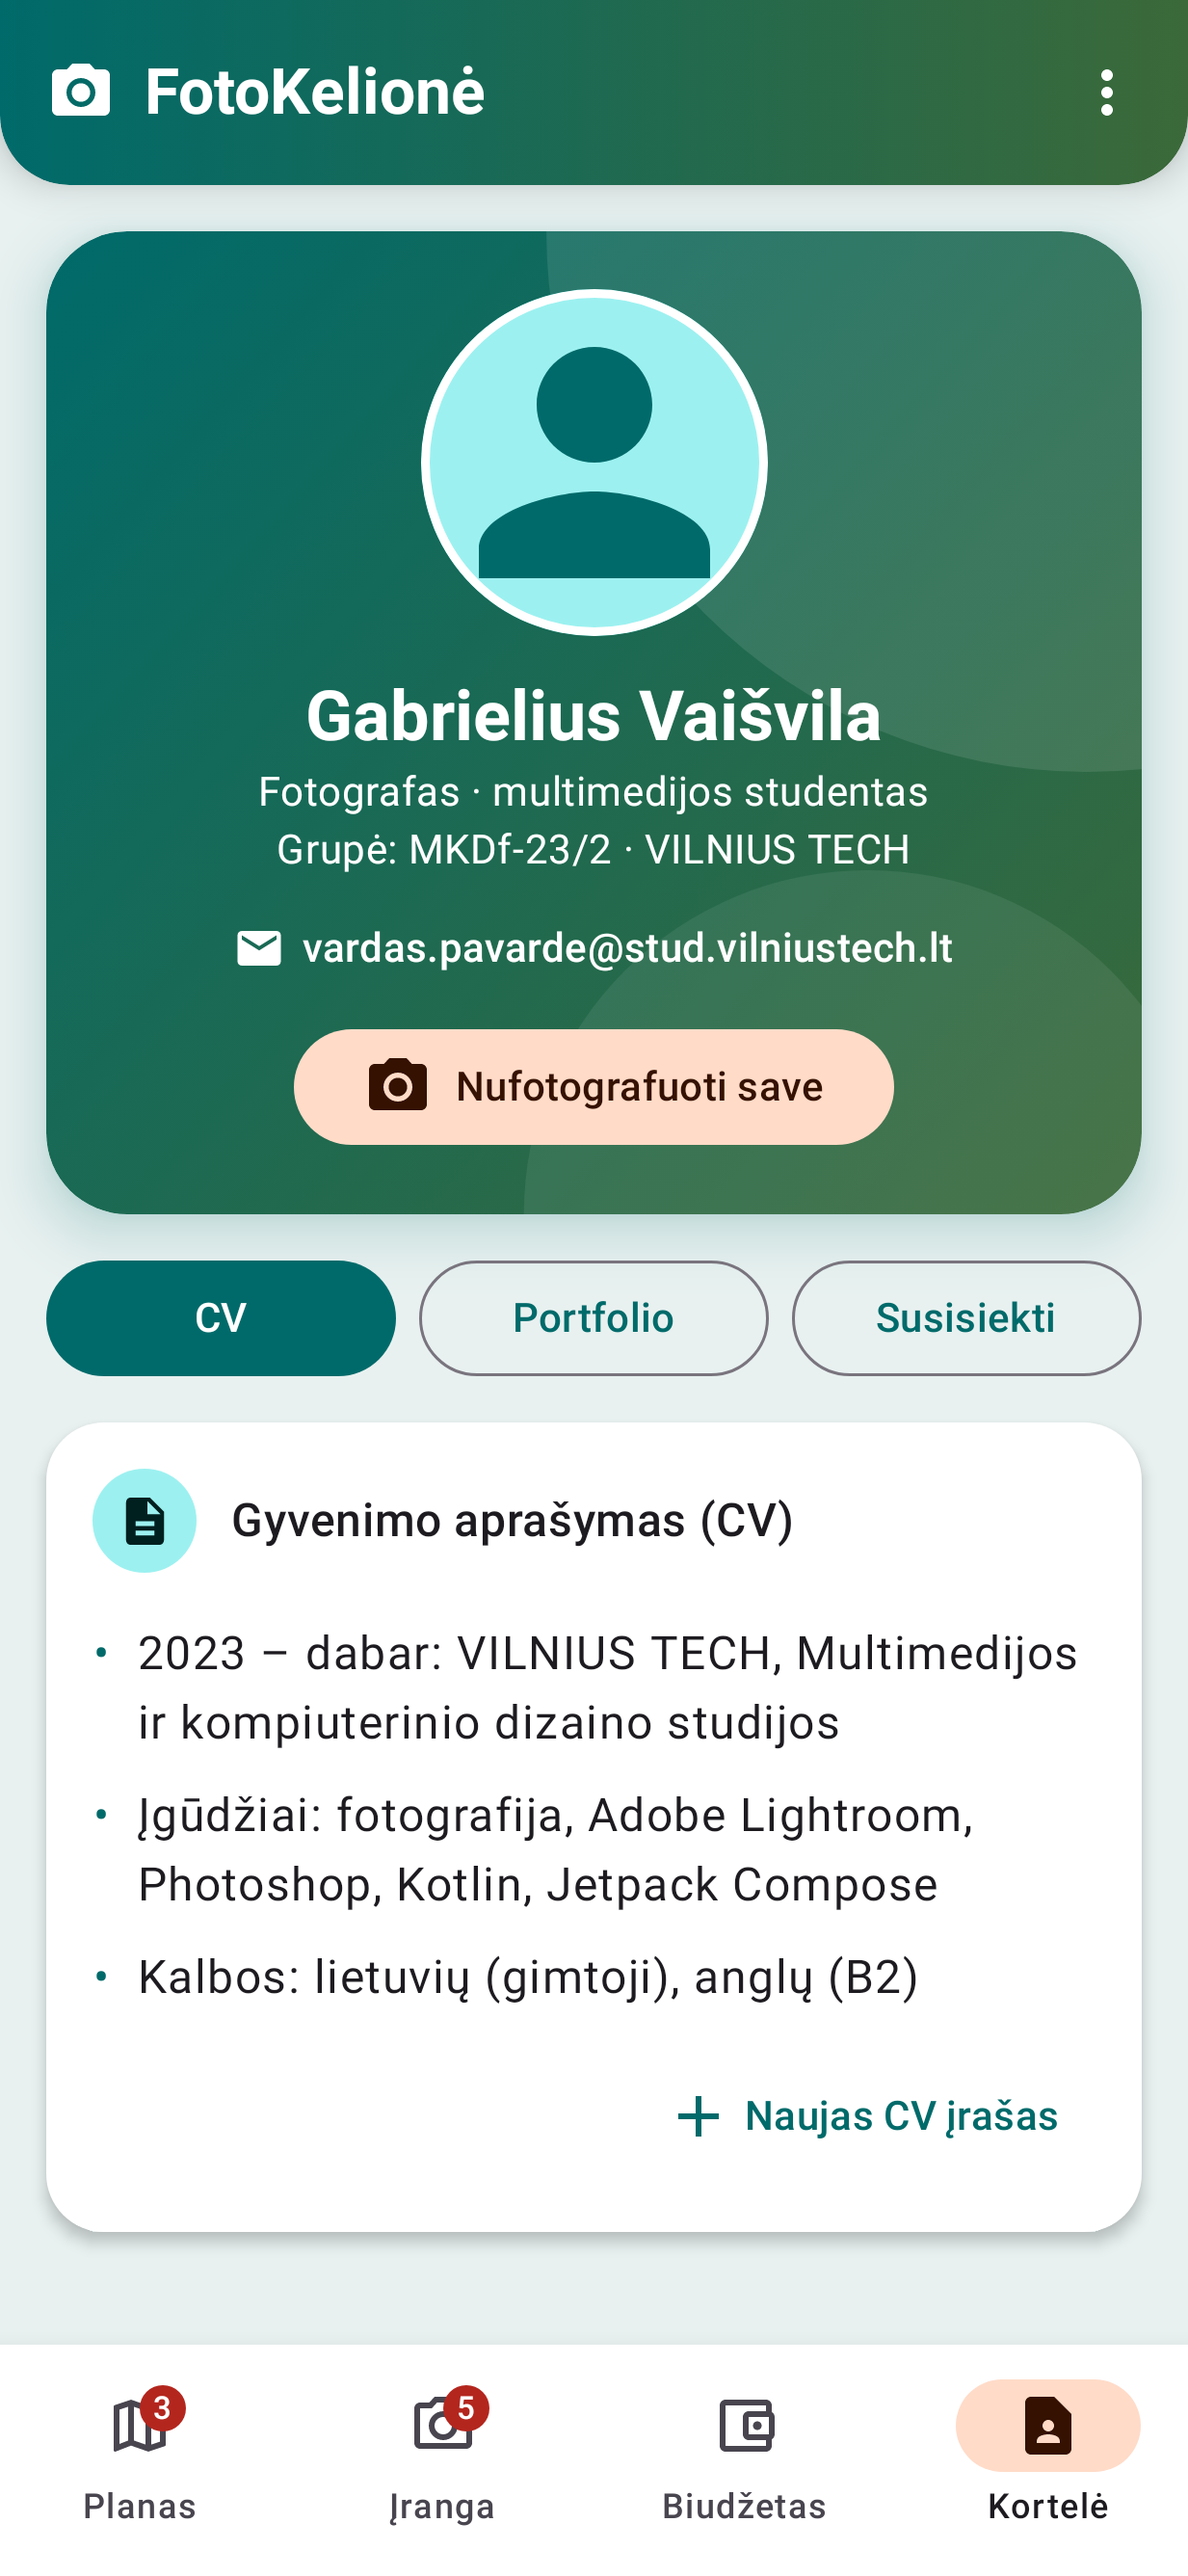
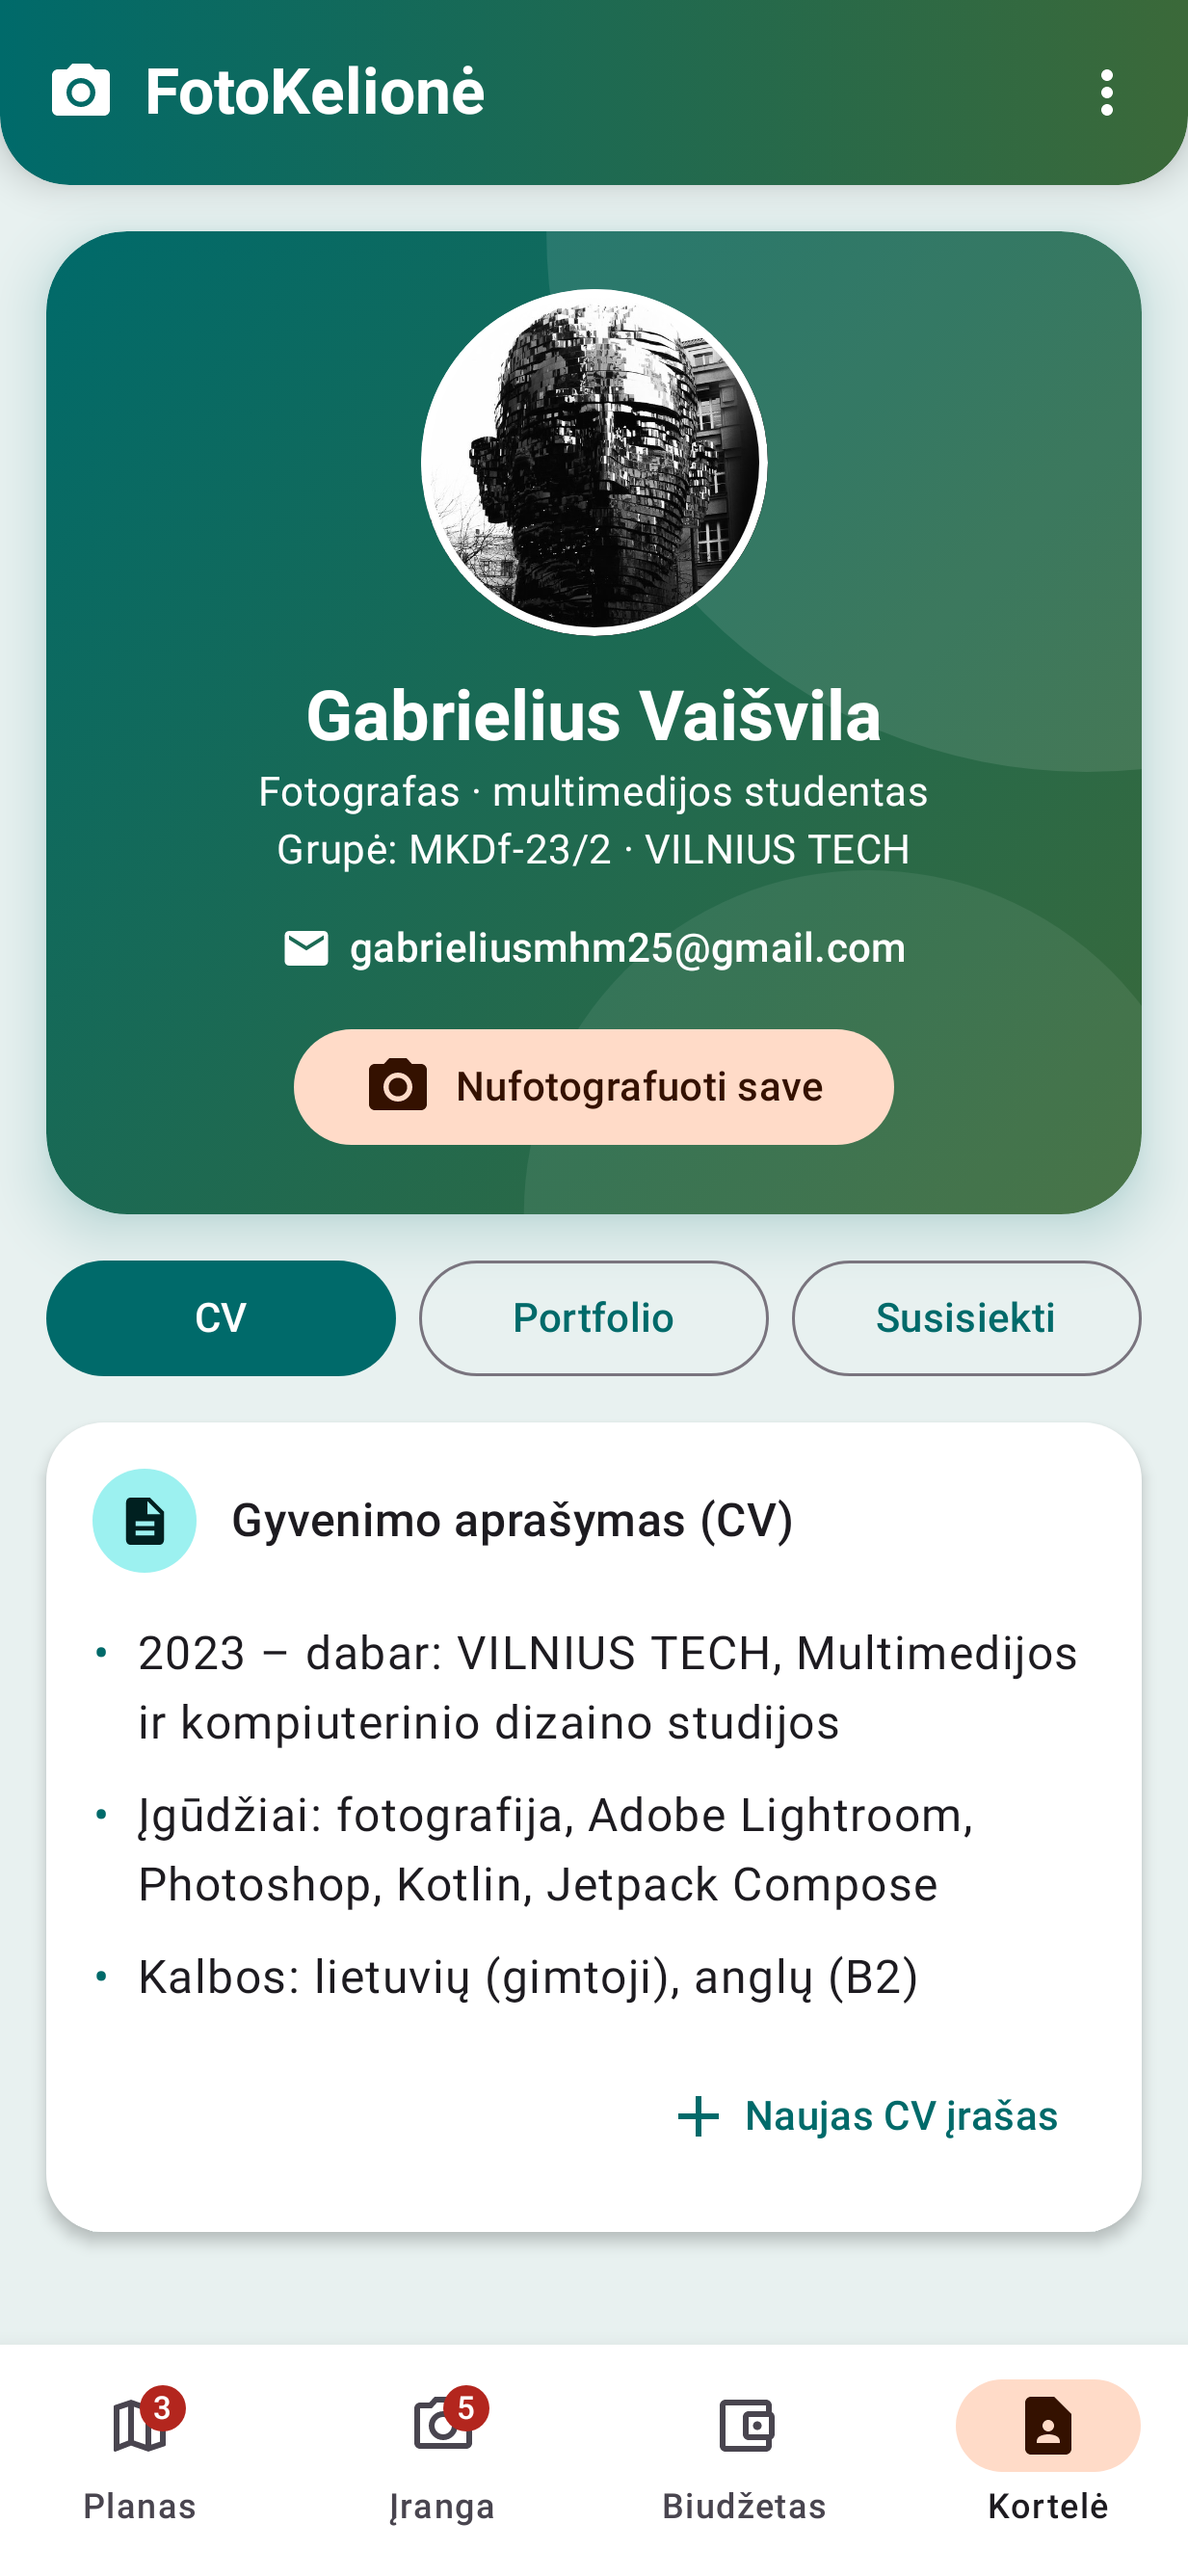
Target Android 16, add author email and photo, link hosted privacy policy
- compileSdk/targetSdk 36, Android Gradle Plugin 8.11.1
- AUTHOR_EMAIL set, card photo replaced with the author's photo
- Privacy policy contact and Play guide point to the GitHub Pages URL

Claude-Session: https://claude.ai/code/session_017tP8B8jomvVKwv1rpvcTau

Changed region(s): [[0.339, 0.0932, 0.6472, 0.2484], [0.1849, 0.3416, 0.8013, 0.3726]]

diff --git a/app/src/main/java/lt/vilniustech/fotokelione/ui/FotoKelioneApp.kt b/app/src/main/java/lt/vilniustech/fotokelione/ui/FotoKelioneApp.kt
@@ -105,7 +105,7 @@ const val AUTHOR_SURNAME = "Vaišvila"
 const val AUTHOR_GROUP = "MKDf-23/2"
 const val AUTHOR_UNIVERSITY = "VILNIUS TECH"
 // ČIA ĮRAŠYKITE SAVO EL. PAŠTĄ – jis rodomas kortelėje ir į jį siunčiama kontakto forma
-const val AUTHOR_EMAIL = "vardas.pavarde@stud.vilniustech.lt"
+const val AUTHOR_EMAIL = "gabrieliusmhm25@gmail.com"
 
 /**
  * Keturi programėlės ekranai.

diff --git a/docs/PUBLIKAVIMAS.md b/docs/PUBLIKAVIMAS.md
@@ -1,12 +1,13 @@
 # FotoKelionė – publikavimas Google Play
 
-Programėlė publikavimui paruošta: turi ikoną, versiją (`versionCode = 2`, `versionName = "2.0"`), `targetSdk = 35`, dvi kalbas ir prisitaiko prie visų ekranų. Toliau – žingsniai, kuriuos reikia atlikti pačiam (reikia Google paskyros ir mokėjimo kortelės).
+Programėlė publikavimui paruošta: turi ikoną, versiją (`versionCode = 2`, `versionName = "2.0"`), `targetSdk = 36` (Android 16), dvi kalbas ir prisitaiko prie visų ekranų. Toliau – žingsniai, kuriuos reikia atlikti pačiam (reikia Google paskyros ir mokėjimo kortelės).
 
-## 0. Prieš pradedant
+## 0. Jau padaryta
 
-1. `ui/FotoKelioneApp.kt` → `AUTHOR_EMAIL` įrašykite **savo** el. paštą (į jį siunčiama kontakto forma).
-2. Savo nuotrauka: ištrinkite `app/src/main/res/drawable/nuotrauka.xml` ir įdėkite `nuotrauka.jpg` į tą patį aplanką.
-3. (Nebūtina) `CardViewModel.kt` → `DEFAULT_PORTFOLIO_URLS` pakeiskite nuorodomis į savo nuotraukas internete.
+- El. paštas: `ui/FotoKelioneApp.kt` → `AUTHOR_EMAIL`.
+- Nuotrauka: `app/src/main/res/drawable-nodpi/nuotrauka.jpg`.
+- Privatumo politika paskelbta: **https://gabrieliauskas25.github.io/fotokelione/privatumo_politika.html**
+- (Nebūtina) `CardViewModel.kt` → `DEFAULT_PORTFOLIO_URLS` galite pakeisti nuorodomis į savo nuotraukas internete.
 
 ## 1. Google Play Developer paskyra
 
@@ -33,7 +34,7 @@ Programėlė publikavimui paruošta: turi ikoną, versiją (`versionCode = 2`, `
 
 | Punktas | Ką atsakyti |
 | --- | --- |
-| Privacy policy | Nuoroda į privatumo politiką (žr. `docs/privatumo_politika.md` – įkelkite, pvz., į Google Sites ar GitHub Pages) |
+| Privacy policy | https://gabrieliauskas25.github.io/fotokelione/privatumo_politika.html |
 | App access | All functionality is available without special access |
 | Ads | No, my app does not contain ads |
 | Content rating | Užpildykite klausimyną (kategorija – Utility/Productivity, į viską „No“) |

diff --git a/docs/privatumo_politika.md b/docs/privatumo_politika.md
@@ -14,4 +14,4 @@
 
 **Internetas.** Internetas naudojamas tik portfolio nuotraukoms parodyti.
 
-**Kontaktai.** Klausimus siųskite el. paštu, nurodytu programėlės skiltyje „Kortelė“.
+**Kontaktai.** Klausimus siųskite el. paštu gabrieliusmhm25@gmail.com.
